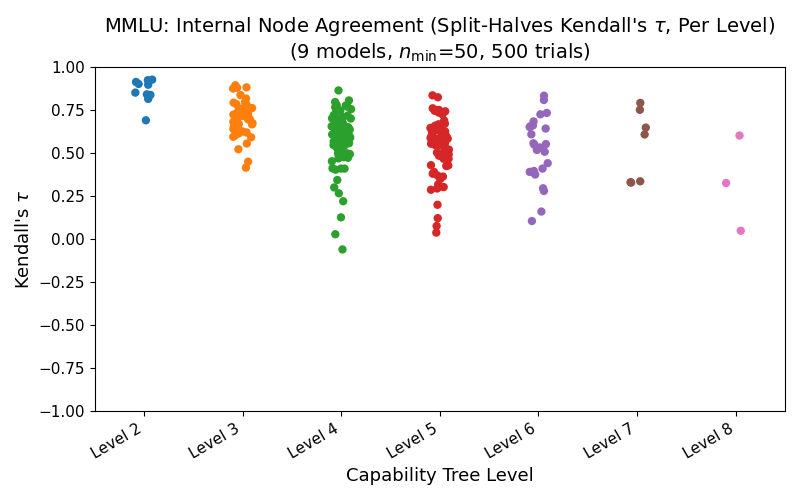
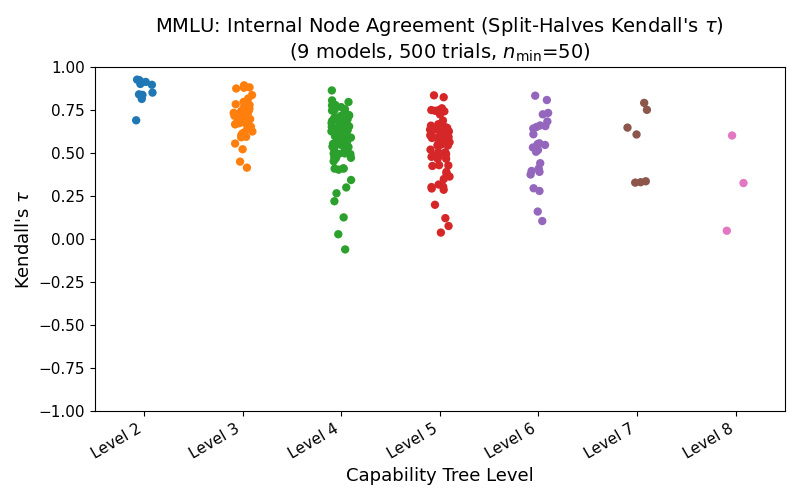
Changed order of notes in plot titles

diff --git a/scripts/intra_node_analysis.py b/scripts/intra_node_analysis.py
@@ -108,8 +108,8 @@ def plot_all_nodes_split_halves_histogram(
     min_instance_label = r"$n_{\mathrm{min}}$"
     ylabel = "Number of Nodes"
     title = (
-        f"{dataset.pretty_name}: Internal Node Agreement (Split-Halves {xlabel}, All Nodes)"
-        f"\n({num_models} models, {num_nodes} nodes, {min_instance_label}={min_instances}, {num_trials} trials)"
+        f"{dataset.pretty_name}: Internal Node Agreement (Split-Halves {xlabel})"
+        f"\n({num_models} models, {num_nodes} nodes, {num_trials} trials, {min_instance_label}={min_instances})"
     )
     mean = data.mean()
     std = data.std()
@@ -163,8 +163,8 @@ def plot_per_level_split_halves_strip_plot(
     ylabel = r"Kendall's $\tau$"
     min_instance_label = r"$n_{\mathrm{min}}$"
     title = (
-        f"{dataset.pretty_name}: Internal Node Agreement (Split-Halves {ylabel}, Per Level)"
-        f"\n({num_models} models, {min_instance_label}={min_instances}, {num_trials} trials)"
+        f"{dataset.pretty_name}: Internal Node Agreement (Split-Halves {ylabel})"
+        f"\n({num_models} models, {num_trials} trials, {min_instance_label}={min_instances})"
     )
     ylim = (-1, 1) if df["mean_kendall_tau"].min() < 0 else (0, 1)
 
@@ -271,8 +271,8 @@ def plot_all_nodes_bootstrap_histogram(
     min_instance_label = r"$n_{\mathrm{min}}$"
     ylabel = "Number of Nodes"
     title = (
-        f"{dataset.pretty_name}: Internal Node Agreement (Bootstrapped {xlabel}, All Nodes)"
-        f"\n({num_models} models, {num_nodes} nodes, {min_instance_label}={min_instances}, {num_trials} trials)"
+        f"{dataset.pretty_name}: Internal Node Agreement (Bootstrapped {xlabel})"
+        f"\n({num_models} models, {num_nodes} nodes, {num_trials} trials, {min_instance_label}={min_instances})"
     )
     mean = data.mean()
     std = data.std()
@@ -326,8 +326,8 @@ def plot_per_level_bootstrap_strip_plot(
     ylabel = r"Kendall's $\tau$"
     min_instance_label = r"$n_{\mathrm{min}}$"
     title = (
-        f"{dataset.pretty_name}: Internal Node Agreement (Bootstrapped {ylabel}, Per Level)"
-        f"\n({num_models} models, {min_instance_label}={min_instances}, {num_trials} trials)"
+        f"{dataset.pretty_name}: Internal Node Agreement (Bootstrapped {ylabel})"
+        f"\n({num_models} models, {num_trials} trials, {min_instance_label}={min_instances})"
     )
     ylim = (-1, 1) if df["mean_kendall_tau"].min() < 0 else (0, 1)
 
@@ -369,7 +369,7 @@ def minibatch_w_analysis(
 
     Returns:
         A DataFrame with one row per node and columns
-        ``["node", "depth", "mean_kendallw", "std_kendallw", "num_instances"]``.
+        ``["node", "depth", "mean_kendall_w", "std_kendall_w", "num_instances"]``.
     """
     tqdm_kwargs = {
         "desc": "Computing mini-batch Kendall's Ws",
@@ -399,8 +399,8 @@ def minibatch_w_analysis(
             {
                 "node": node.capability,
                 "depth": node.depth,
-                "mean_kendallw": np.mean(kendallw_values),
-                "std_kendallw": np.std(kendallw_values),
+                "mean_kendall_w": np.mean(kendallw_values),
+                "std_kendall_w": np.std(kendallw_values),
                 "num_instances": node_size,
             }
         )
@@ -436,13 +436,13 @@ def plot_all_nodes_minibatch_w_histogram(
     Returns:
         The matplotlib Figure containing the histogram.
     """
-    data = df["mean_kendallw"]
+    data = df["mean_kendall_w"]
     xlabel = "Kendall's W"
     min_instance_label = r"$n_{\mathrm{min}}$"
     ylabel = "Number of Nodes"
     title = (
-        f"{dataset.pretty_name}: Internal Node Agreement (Mini-Batch Kendall's W, All Nodes)"
-        f"\n({num_models} models, {num_nodes} nodes, {min_instance_label}={min_instances}, {num_trials} trials, {num_folds} folds)"
+        f"{dataset.pretty_name}: Internal Node Agreement (Mini-Batch Kendall's W)"
+        f"\n({num_models} models, {num_nodes} nodes, {num_trials} trials, {num_folds} folds, {min_instance_label}={min_instances})"
     )
     mean = data.mean()
     std = data.std()
@@ -498,14 +498,14 @@ def plot_per_level_minibatch_w_strip_plot(
     ylabel = "Kendall's W"
     min_instance_label = r"$n_{\mathrm{min}}$"
     title = (
-        f"{dataset.pretty_name}: Internal Node Agreement (Mini-Batch Kendall's W, Per Level)"
-        f"\n({num_models} models, {min_instance_label}={min_instances}, {num_trials} trials, {num_folds} folds)"
+        f"{dataset.pretty_name}: Internal Node Agreement (Mini-Batch Kendall's W)"
+        f"\n({num_models} models, {num_trials} trials, {num_folds} folds, {min_instance_label}={min_instances})"
     )
 
     return plot_stripplot(
         data=plot_df,
         x="level",
-        y="mean_kendallw",
+        y="mean_kendall_w",
         xlabel=xlabel,
         ylabel=ylabel,
         title=title,
